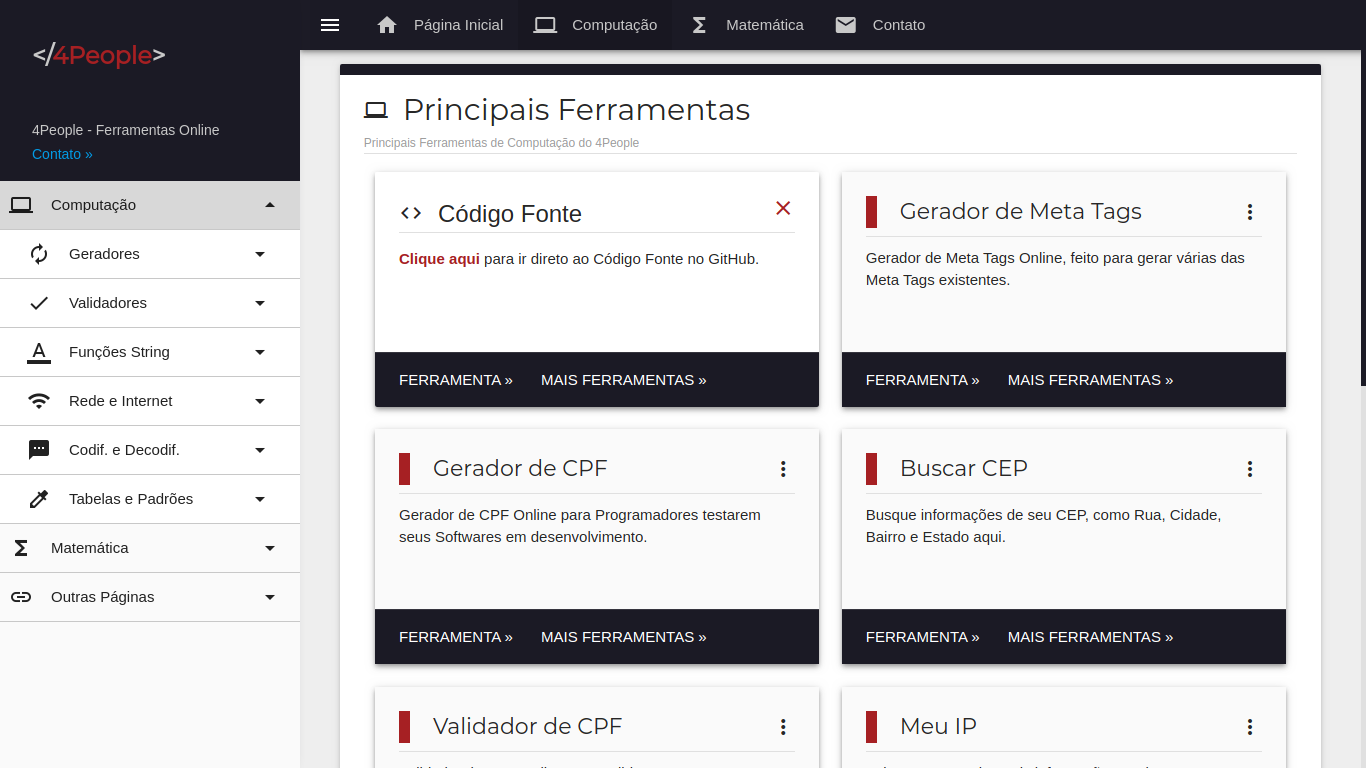
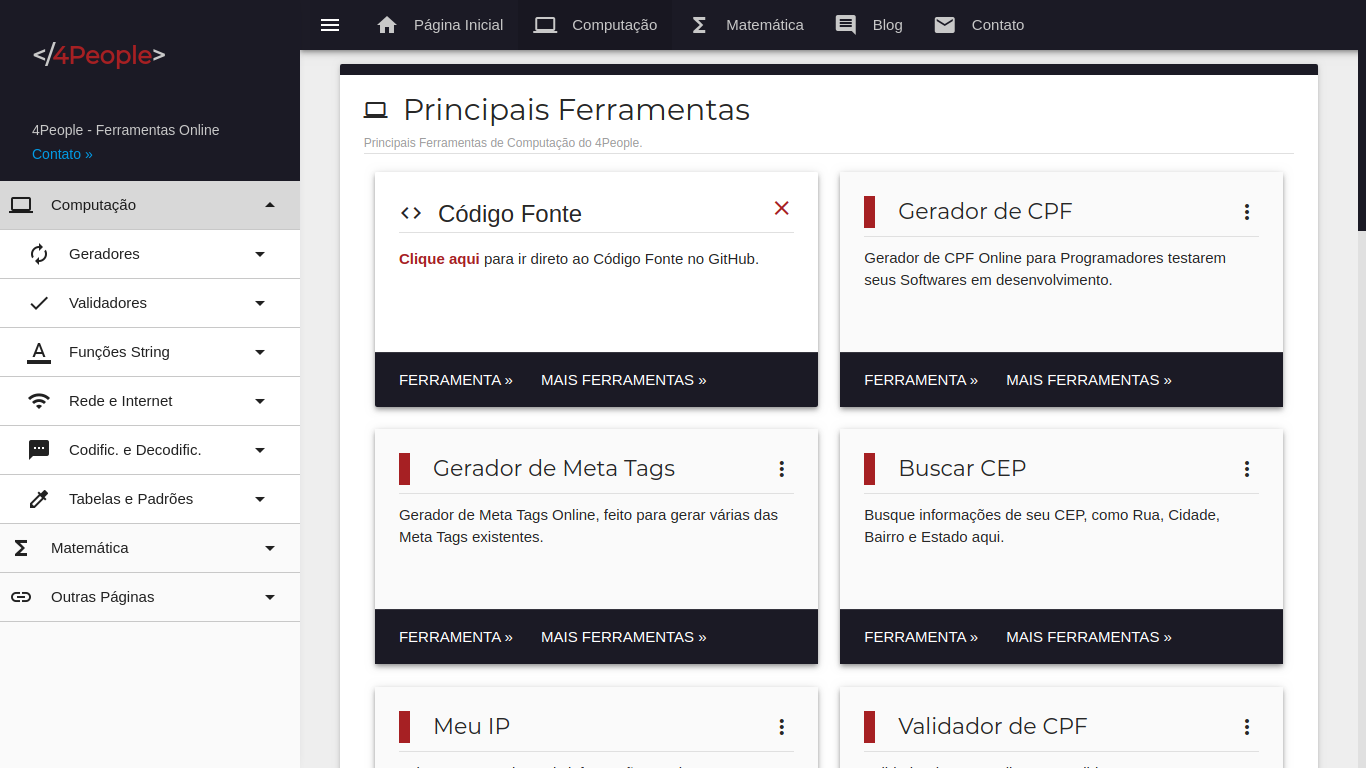
improvements

diff --git a/admin/panel/blog/src/index.js b/admin/panel/blog/src/index.js
@@ -4,7 +4,7 @@ Quill.register(Quill.import('attributors/style/direction'), true)
 Quill.register(Quill.import('attributors/style/align'), true)
 Quill.register(Quill.import('attributors/style/size'), true)
 
-new Quill('#snow-container', {
+const quill = new Quill('#snow-container', {
 	modules: {
 		formula: true,
 		syntax: true,
@@ -13,6 +13,8 @@ new Quill('#snow-container', {
 	placeholder: 'Escrever conteúdo...',
 	theme: 'snow'
 })
+
+quill.root.setAttribute('spellcheck', false)
 
 let lblQuillContent
 const btnInsertPost = document.querySelector('#btnInsertPost')

diff --git a/pages/blog/post/src/index.css b/pages/blog/post/src/index.css
@@ -1,11 +1,11 @@
 h1 {
 	font-size: 35px;
-	margin: 15px 0
+	margin: 19px 0
 }
 
 h2 {
 	font-size: 27px;
-	margin: 10px 0
+	margin: 15px 0
 }
 
 br {

diff --git a/pages/blog/post/index.php b/pages/blog/post/index.php
@@ -31,25 +31,68 @@ include_once("$root/assets/assets.php")
 	<main>
 		<div class="container">
 			<div class="card-panel top-div-margin">
-				<h1 class="mont-serrat" id="postTitle" style="font-size:30px;margin:0 0 5px"></h1>
-				<label id="postDescription"></label>
+				<?php
+				include_once("$assets/php/Connection.php");
 
-				<div class="divider"></div>
+				$post_id = filter_input(INPUT_GET, 'post_id', FILTER_DEFAULT);
 
-				<div class="center-align">
-					<div class="waves-effect waves-light">
-						<img class="responsive-img mt-2" style="height:300px" id="postImage" />
+				$sql = $database->prepare('SELECT COUNT(post_id) FROM posts WHERE post_status = "1" LIMIT 1');
+				$sql->execute();
+
+				$total = $sql->fetchColumn();
+
+				$sql = $database->prepare(
+					'SELECT posts.post_title, posts.post_image, posts.post_description, posts.post_content, posts.post_visits, posts.post_createdAt, admins.admin_name FROM posts
+						INNER JOIN admins ON admins.admin_id = posts.admin_id
+						WHERE post_status = "1" AND post_id = :post_id
+						LIMIT 1'
+				);
+
+				$sql->bindValue(':post_id', $post_id);
+
+				if ($sql->execute() && $sql->rowCount()) : extract($sql->fetch()) ?>
+					<h1 class="mont-serrat" style="font-size:30px;margin:0 0 5px"><?= $post_title ?></h1>
+					<label><?= $post_description ?></label>
+
+					<div class="divider"></div>
+
+					<div class="center-align">
+						<div class="waves-effect waves-light">
+							<img class="responsive-img mt-2" style="height:300px" src="<?= $assets ?>/images/blog_images/<?= $post_image ?>" />
+						</div>
 					</div>
-				</div>
 
-				<div class="row mb-0">
-					<p class="mt-0 mb-0 col s12" id="postContent"></p>
-				</div>
+					<div class="row mb-0">
+						<p class="mt-0 mb-0 col s12"><?= $post_content ?></p>
+					</div>
+
+					<?php if (!isset($_SESSION['logged'])) {
+							$sql = $database->prepare('SELECT post_visits FROM posts WHERE post_status = "1" AND post_id = :post_id LIMIT 1');
+							$sql->bindValue(':post_id', $post_id);
+							$sql->execute();
+
+							$visits = $sql->fetchColumn();
+
+							$sql = $database->prepare('UPDATE posts SET post_visits = :post_visits WHERE post_id = :post_id');
+							$sql->bindValue(':post_visits', ++$visits);
+							$sql->bindValue(':post_id', $post_id);
+							$sql->execute();
+						} ?>
+				<?php else : ?>
+					<h1 class="mont-serrat" style="font-size:30px;margin:0 0 5px">Postagem</h1>
+					<label>Erro ao encontrar o post.</label>
+
+					<div class="divider"></div>
+
+					<div class="row mb-0">
+						<p class="mont-serrat mt-2 mb-2 red-color-text col s12">Não foi encontrado nenhum post de ID "<?= $post_id ?>"</p>
+					</div>
+				<?php endif ?>
 
 				<div class="divider mb-2"></div>
-				<a title="Voltar ao Blog" href=".." class="btn waves-effect waves-light red-color">« Voltar</a>
+				<a title="Voltar ao Blog" href=".." class="btn waves-effect waves-light red-color z-depth-0">« Voltar</a>
 				<?php if (isset($_SESSION['logged'])) : ?>
-					<a title="Ir para página de Controle de posts do Blog" href="<?= $root ?>/admin/panel/blog/" class="btn waves-effect waves-light btn-green">Editar »</a>
+					<a title="Ir para página de Controle de posts do Blog" href="<?= $root ?>/admin/panel/blog/" class="btn waves-effect waves-light btn-green z-depth-0">Editar »</a>
 				<?php endif ?>
 
 				<div class="top-div dark-grey"></div>
@@ -65,43 +108,6 @@ include_once("$root/assets/assets.php")
 	<script src="<?= $assets ?>/src/js/materialize.min.js"></script>
 	<script src="<?= $assets ?>/src/js/index.js"></script>
 	<script src="<?= $assets ?>/src/js/main.js"></script>
-	<script>
-		const postTitle = document.querySelector('#postTitle')
-		const postImage = document.querySelector('#postImage')
-		const postDescription = document.querySelector('#postDescription')
-		const postContent = document.querySelector('#postContent')
-
-		async function getPost() {
-			let postHTML = ''
-			let post_id = location.search.split('=')[1]
-			post_id = post_id === undefined ? '1' : post_id;
-
-			const data = await (await fetch(`src/select_post.php?post_id=${post_id}`)).json()
-
-			if (Object.keys(data).length > 0) {
-				postTitle.innerHTML = `<i class="material-icons left" style="top:5.5px">comment</i>${data[0]}`
-				postImage.src = `<?= $assets ?>/images/blog_images/${data[1]}`
-				postImage.alt = data[0]
-				postImage.parentElement.title = data[0]
-				postDescription.innerHTML = `${data[2]}. Autor: ${data[6]}. Postado: ${data[5]}. Visitas: ${data[4]}`
-				postContent.innerHTML = data[3]
-
-				const getULElements = document.querySelectorAll('#postContent ul')
-				for (let i = 0; i < getULElements.length; i += 1) {
-					getULElements[i].classList.add('browser-default')
-				}
-			} else {
-				postTitle.innerHTML = 'Post'
-				postDescription.innerHTML = 'Descrição'
-				postContent.innerHTML = 'Não há post nessa área!'
-				postContent.classList.add('mont-serrat', 'red-color-text', 'mt-2', 'mb-2')
-				postContent.classList.remove('mb-0')
-				postImage.hidden = true
-			}
-		}
-
-		getPost()
-	</script>
 </body>
 
 </html>

diff --git a/pages/blog/index.php b/pages/blog/index.php
@@ -59,7 +59,7 @@ include_once("$root/assets/assets.php")
 		async function getPosts() {
 			let postsHTML = ''
 			let page = location.search.split('=')[1]
-			page = page === undefined || !Number.isInteger(page) ? '1' : page;
+			page = page === undefined || !Number.isInteger(parseInt(page)) ? '1' : page;
 
 			const total = Number((await (await fetch('src/total_posts.php')).json()).total)
 
@@ -70,16 +70,16 @@ include_once("$root/assets/assets.php")
 				for (const i in data) {
 					postsHTML += (
 						`<div class="col s12 m6">
-						<div class="card">
-							<a href="./post/?post_id=${data[i][0]}" style="height:250px;background-size:cover;background-image: url('<?= $assets ?>/images/blog_images/${data[i][2]}')" class="card-image waves-effect waves-block waves-light"></a>
+							<div class="card">
+								<a title="${data[i][1]}" href="./post/?post_id=${data[i][0]}" style="height:250px;background-size:cover;background-image: url('<?= $assets ?>/images/blog_images/${data[i][2]}')" class="card-image waves-effect waves-block waves-light"></a>
 
-							<div class="card-content">
-								<span class="card-title grey-text text-darken-4"><a href="./post/?post_id=${data[i][0]}">${data[i][1]}</a></span>
-								<p><a href="./post/?post_id=${data[i][0]}">Clique aqui</a> para ver mais informações.</p>
-								<p class="mt-2 mb-0">${data[i][3]}</p>
+								<div class="card-content">
+									<span class="card-title grey-text text-darken-4"><a href="./post/?post_id=${data[i][0]}">${data[i][1]}</a></span>
+									<p><a href="./post/?post_id=${data[i][0]}">Clique aqui</a> para ver mais informações.</p>
+									<p class="mt-2 mb-0">Postado: ${new Date(data[i][3]).toDateString()}</p>
+								</div>
 							</div>
-						</div>
-					</div>`
+						</div>`
 					)
 				}
 

diff --git a/admin/panel/blog/index.php b/admin/panel/blog/index.php
@@ -375,7 +375,7 @@ if (!isset($_SESSION['logged'])) {
 			const snowContainers = document.querySelectorAll('.snow-container')
 
 			for (const i in data) {
-				new Quill(`#snow-container${i}`, {
+				const newQuill = new Quill(`#snow-container${i}`, {
 					modules: {
 						formula: true,
 						syntax: true,
@@ -384,6 +384,8 @@ if (!isset($_SESSION['logged'])) {
 					placeholder: 'Escrever conteúdo...',
 					theme: 'snow'
 				})
+
+				newQuill.root.setAttribute('spellcheck', false)
 
 				let newLblQuillContent = document.querySelector(`#snow-container${i} .ql-editor`)
 				const btnUpdatePost = document.querySelector(`#btnUpdatePost${i}`)
@@ -401,6 +403,8 @@ if (!isset($_SESSION['logged'])) {
 				method: 'POST',
 				body: new FormData(formUpdate)
 			})).json()
+
+			console.log(data)
 
 			if (data.status === '1') {
 				M.toast({

diff --git a/assets/components/Header.php b/assets/components/Header.php
@@ -23,6 +23,7 @@
 						foreach ($sql as $data) : extract($data) ?>
 						<li title="<?= $type_name ?>" class="waves-effect"><a href="<?= $root ?>/pages/<?= $type_path ?>/"><i class="material-icons left"><?= $type_icon ?></i><?= $type_name ?></a></li>
 					<?php endforeach ?>
+					<li title="Blog do 4People" class="waves-effect"><a href="<?= $root ?>/pages/blog/"><i class="material-icons left">comment</i>Blog</a></li>
 					<li title="Contato" class="waves-effect"><a href="<?= $root ?>/pages/contact/"><i class="material-icons left">email</i>Contato</a></li>
 				<?php endif ?>
 			</ul>

diff --git a/admin/panel/administrators/data_update/index.php b/admin/panel/administrators/data_update/index.php
@@ -34,7 +34,7 @@ if (!isset($_SESSION['logged'])) {
 				$sql->execute();
 				extract($sql->fetch());
 				?>
-				<h1 class="flow-text" style="margin:0 0 5px"><i class="material-icons left">edit</i>Atualizar dados de <?= $admin_name ?></h1>
+				<h1 class="flow-text" style="margin:0 0 5px"><i class="material-icons left" style="top:5px">edit</i>Editar dados de <?= $admin_name ?></h1>
 				<label>Atualizar Dados de um Administrador do 4People</label>
 
 				<div class="divider"></div>

diff --git a/index.php b/index.php
@@ -163,7 +163,7 @@ include_once('assets/assets.php')
 						</blockquote>
 					</div>
 				</div>
-				
+
 				<div class="divider mt-2 mb-2"></div>
 
 				<div class="row mb-0" style="margin-top:12px">

diff --git a/README.md b/README.md
@@ -68,5 +68,8 @@
 - Matemática
 ![matemaitca](assets/images/README_images/matematica.png "4People - Matemática")
 
+- Blog
+![blog](assets/images/README_images/blog.png "Blog do 4People")
+
 - Contato
 ![contato](assets/images/README_images/contato.png "4People - Contato")
